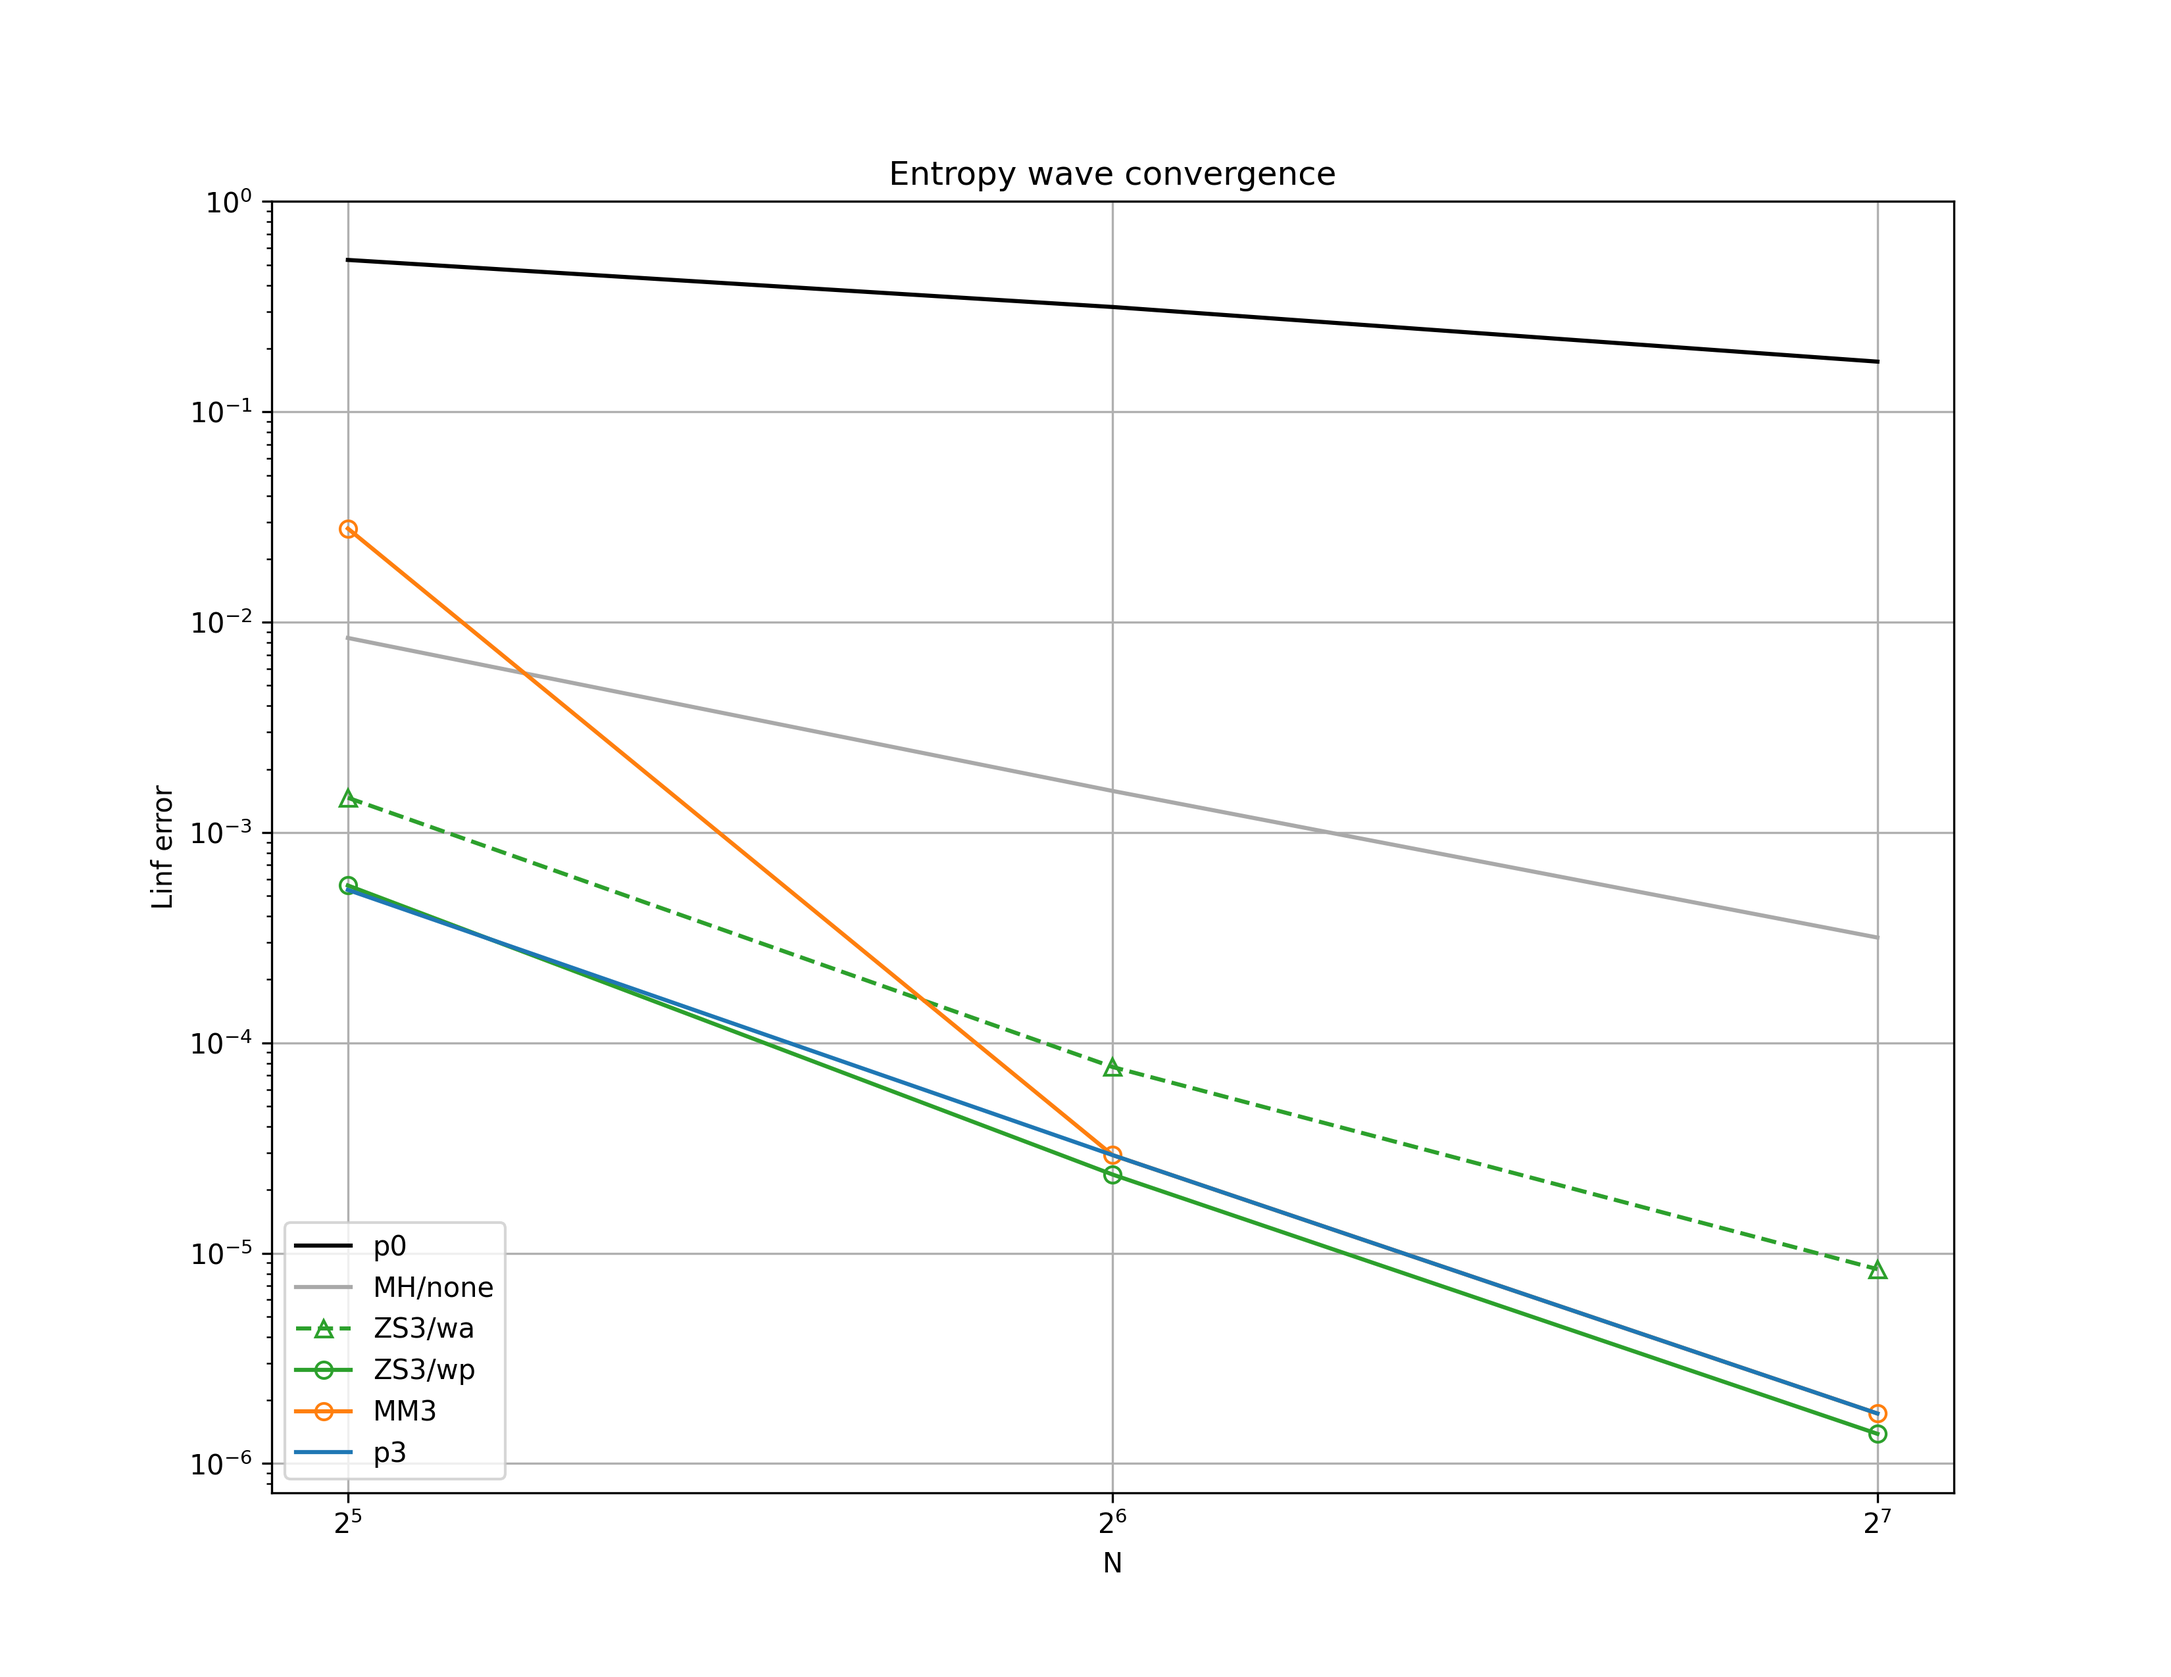
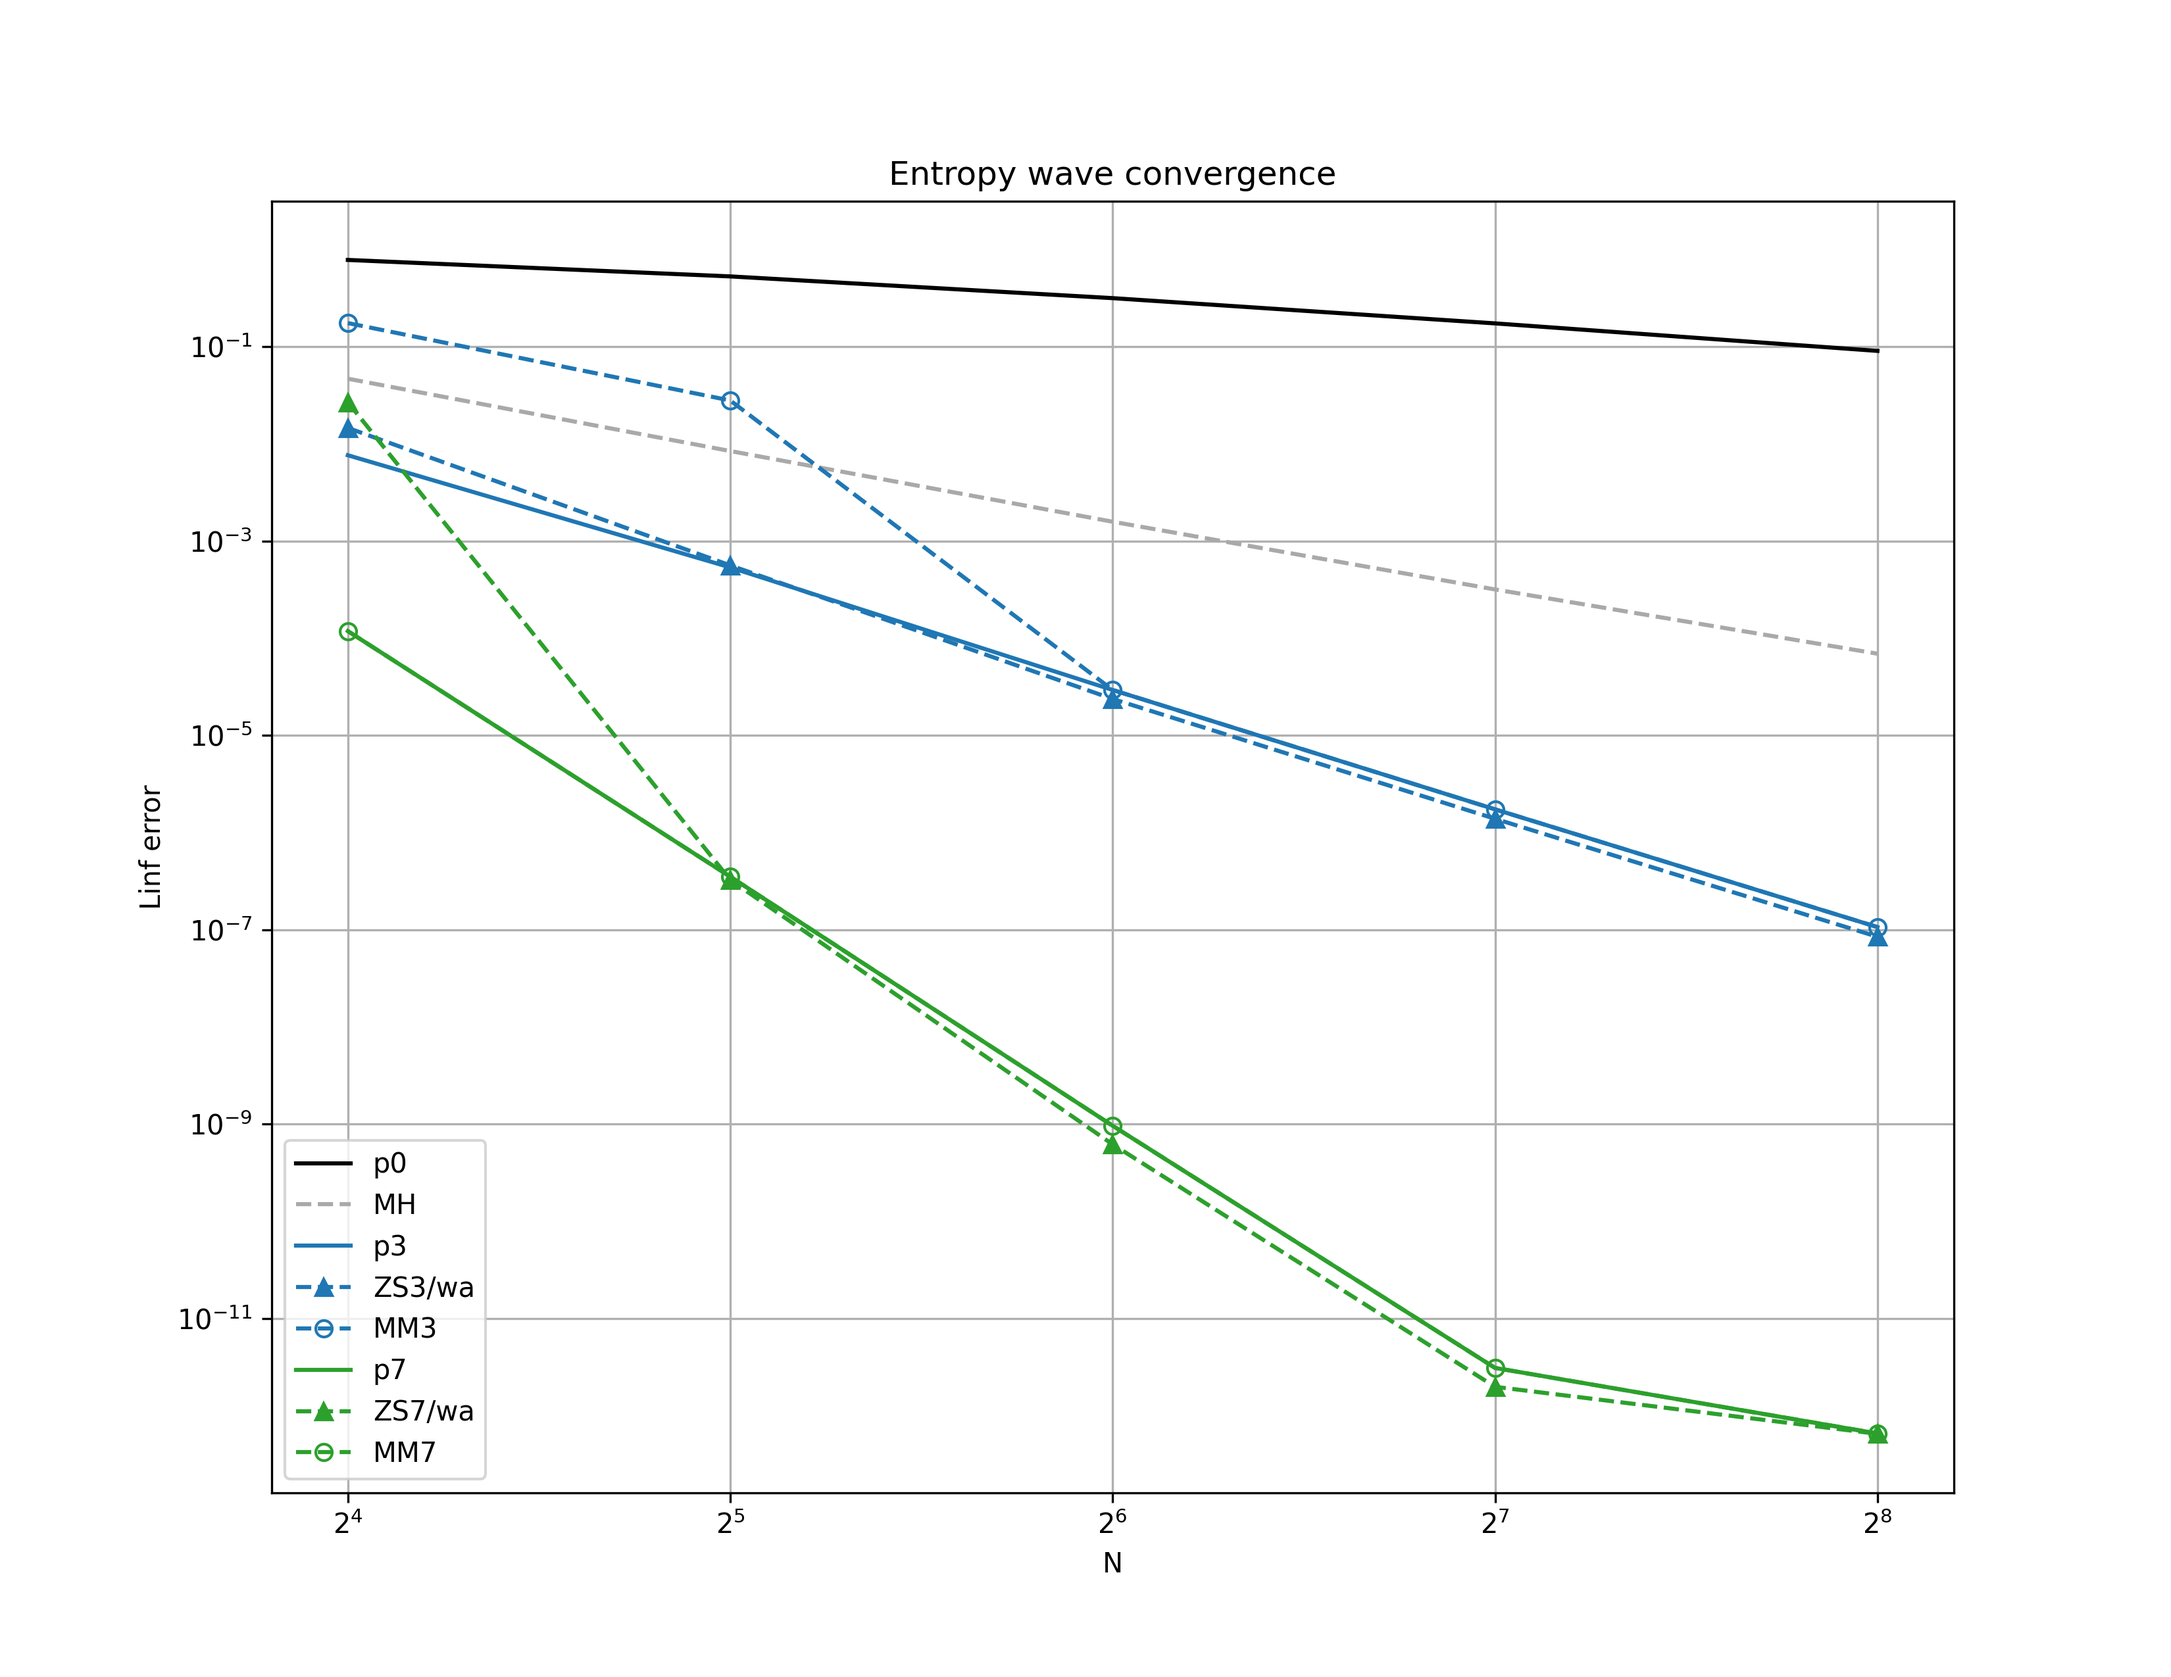
udpate entropy wave

diff --git a/benchmarks/entropy-wave-convergence/2d/__main__.py b/benchmarks/entropy-wave-convergence/2d/__main__.py
@@ -20,23 +20,29 @@ aposteriori = dict(
 
 configs = {
     "p0": dict(p=0),
-    "MH/none": dict(p=1, MUSCL=True, MUSCL_limiter=None, **common),
-    "ZS3/wa": dict(p=3, lazy_primitives="adaptive", **apriori),
-    "ZS3/wp": dict(p=3, lazy_primitives="none", **apriori),
-    "MM3": dict(p=3, **aposteriori),
+    "MH": dict(p=1, MUSCL=True, MUSCL_limiter="PP2D", **common),
     "p3": dict(p=3),
+    "ZS3/wa": dict(p=3, lazy_primitives="adaptive", **apriori),
+    "MM3": dict(p=3, **aposteriori),
+    "p7": dict(p=7),
+    "ZS7/wa": dict(p=7, lazy_primitives="adaptive", **apriori),
+    "MM7": dict(p=7, **aposteriori),
 }
 
 styles = {
     "p0": dict(color="k"),
-    "MH/none": dict(color="darkgray"),
-    "ZS3/wa": dict(color="tab:green", linestyle="--", marker="^", mfc="none"),
-    "ZS3/wp": dict(color="tab:green", marker="o", mfc="none"),
-    "MM3": dict(color="tab:orange", marker="o", mfc="none"),
+    "p1": dict(color="darkgray"),
+    "MH/none": dict(color="darkgray", linestyle=".."),
+    "MH": dict(color="darkgray", linestyle="--"),
     "p3": dict(color="tab:blue"),
+    "ZS3/wa": dict(color="tab:blue", linestyle="--", marker="^"),
+    "MM3": dict(color="tab:blue", linestyle="--", marker="o", mfc="none"),
+    "p7": dict(color="tab:green"),
+    "ZS7/wa": dict(color="tab:green", linestyle="--", marker="^"),
+    "MM7": dict(color="tab:green", linestyle="--", marker="o", mfc="none"),
 }
 
-N_values = [32, 64, 128]
+N_values = [16, 32, 64, 128, 256]
 
 
 gamma = 5 / 3
